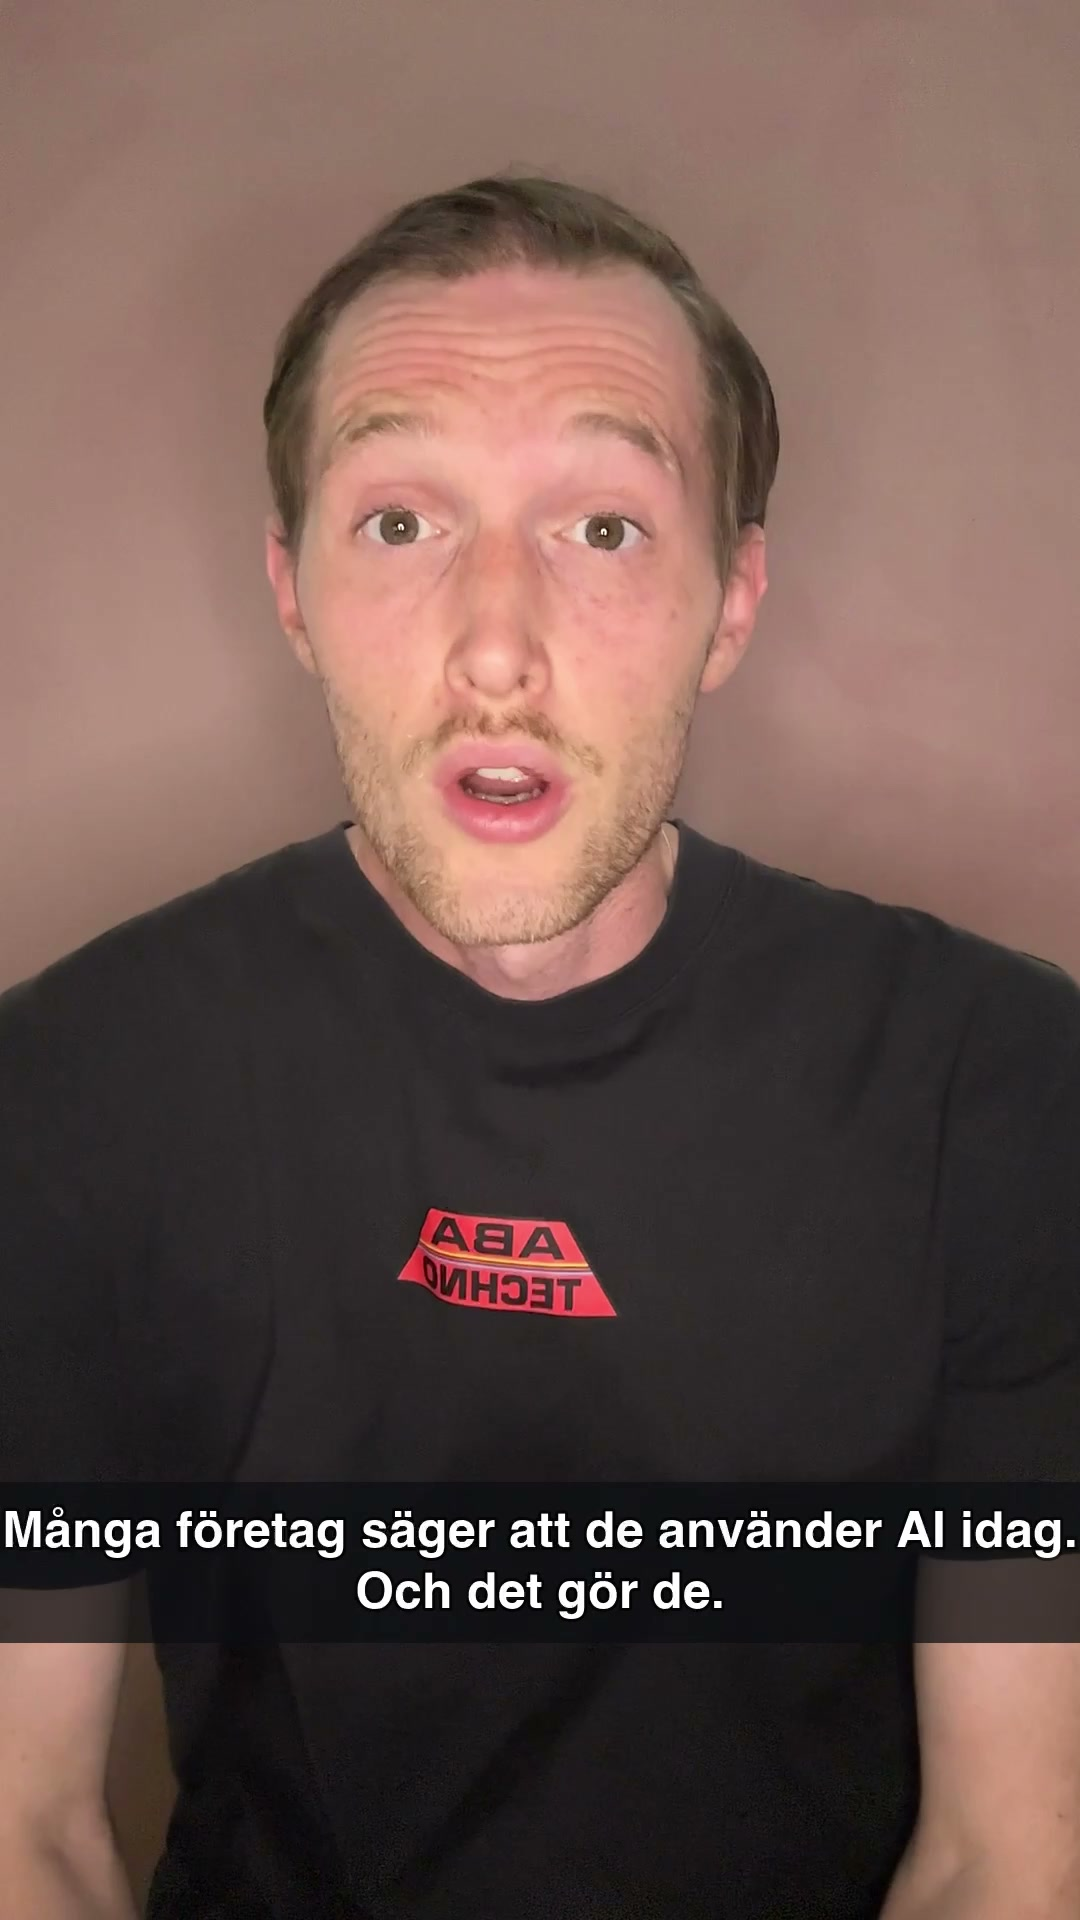
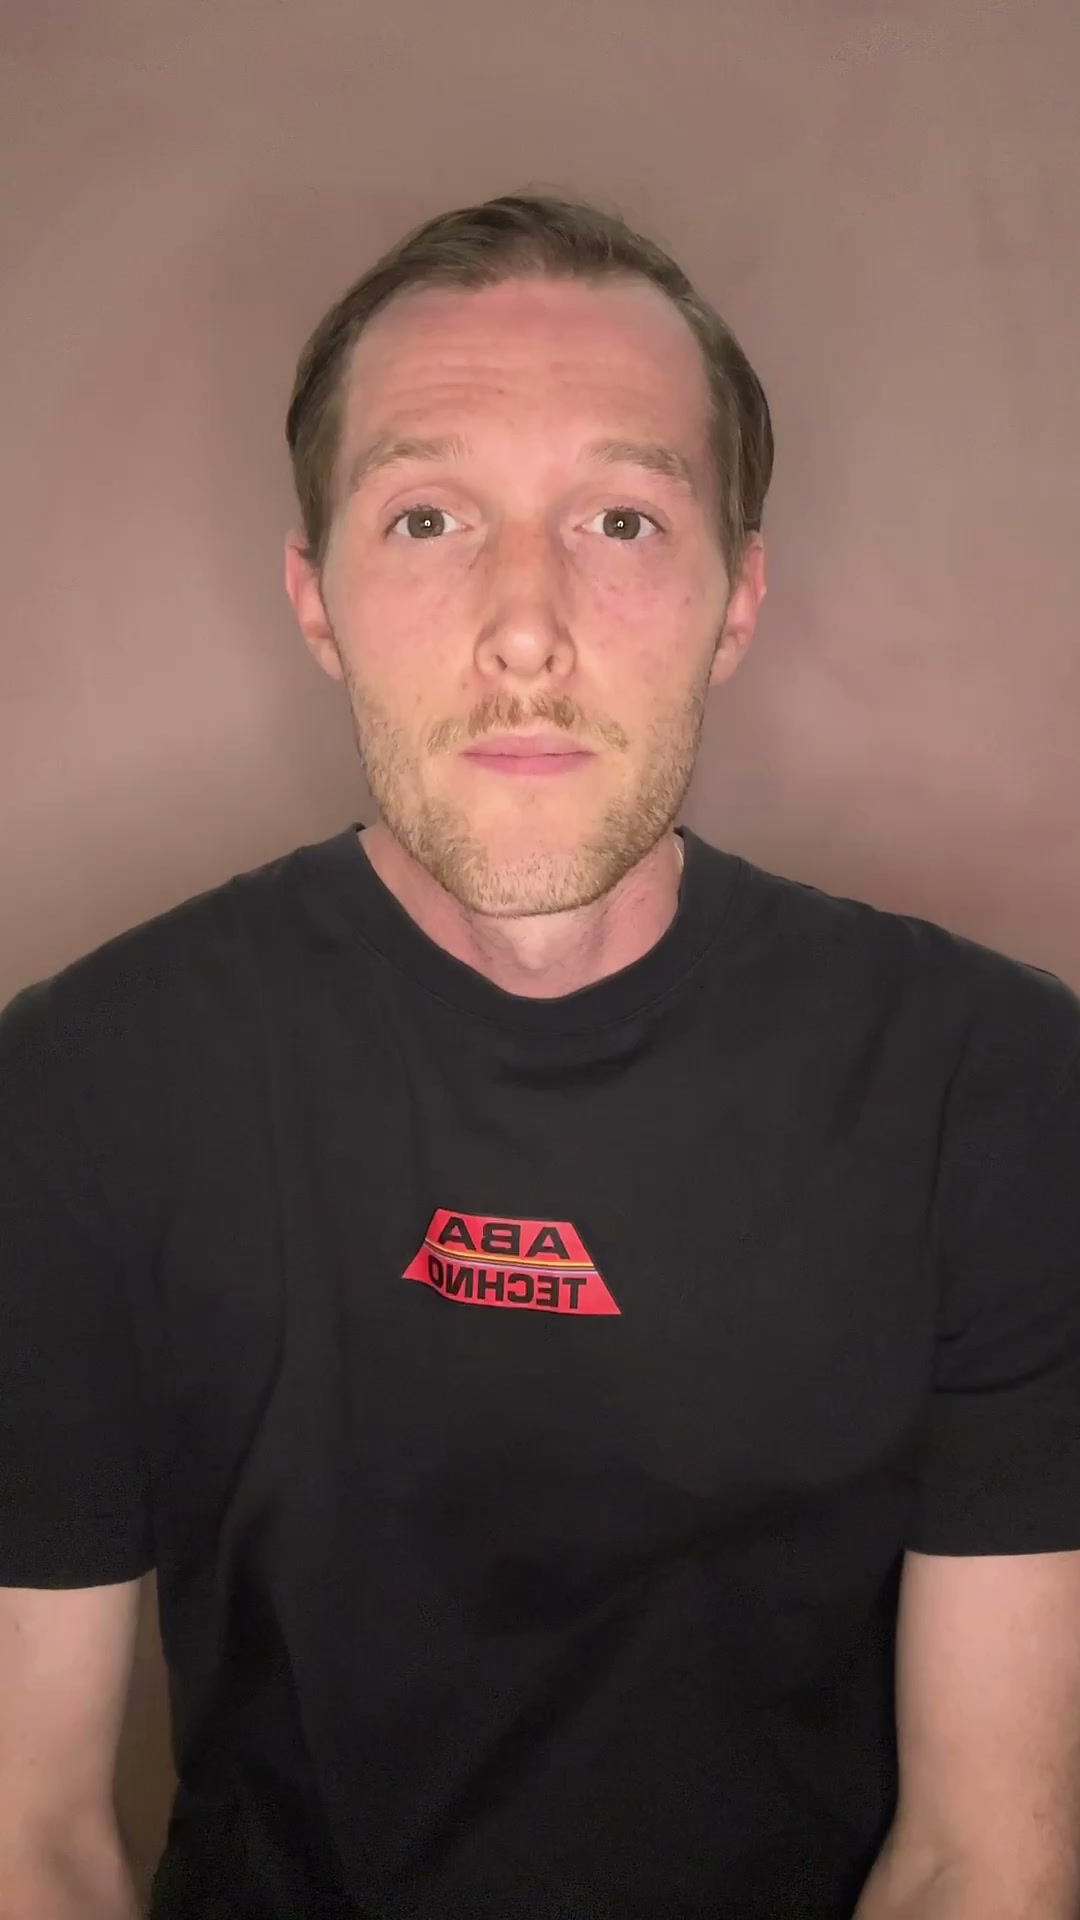
Finalize Meta ad V2 preview

diff --git a/ai-i-drift/sa-fungerar-det/bridge.css b/ai-i-drift/sa-fungerar-det/bridge.css
@@ -63,21 +63,6 @@
   border-bottom: 1px solid rgba(243, 238, 228, 0.38);
 }
 
-.bridge-video-meta {
-  min-height: 46px;
-  display: flex;
-  align-items: center;
-  justify-content: space-between;
-  gap: 16px;
-  padding: 0 18px;
-  color: #9e9587;
-  border-bottom: 1px solid rgba(243, 238, 228, 0.14);
-  font-family: "IBM Plex Mono", monospace;
-  font-size: 0.58rem;
-  letter-spacing: 0.13em;
-  text-transform: uppercase;
-}
-
 .bridge-video-frame video {
   width: 100%;
   aspect-ratio: 16 / 9;
@@ -132,11 +117,6 @@
     font-size: clamp(3rem, 14.5vw, 4.7rem);
   }
 
-  .bridge-video-meta {
-    min-height: 42px;
-    padding-inline: 14px;
-  }
-
   .bridge-action {
     align-items: stretch;
     flex-direction: column;
@@ -160,7 +140,4 @@
     font-size: 3.2rem;
   }
 
-  .bridge-video-meta span:last-child {
-    display: none;
-  }
 }

diff --git a/ai-i-drift/sa-fungerar-det/index.html b/ai-i-drift/sa-fungerar-det/index.html
@@ -31,10 +31,6 @@
       </div>
 
       <div class="bridge-video-frame">
-        <div class="bridge-video-meta" aria-hidden="true">
-          <span>Inför mötet</span>
-          <span>48 sekunder</span>
-        </div>
         <video
           id="bridge-video"
           data-media-status="local-review-candidate"

diff --git a/assets/video/README.md b/assets/video/README.md
@@ -9,15 +9,18 @@
 - `ai-i-drift-sa-fungerar-det-v2.sv.vtt`: captions for the retired V2 asset only.
 - `ai-i-drift-sa-fungerar-det.mp4`: historical placeholder. Do not launch.
 - `ai-i-drift-sa-fungerar-det-v3-script.sv.txt`: exact spoken source represented by the 16:9 bridge recording.
-- `meta-founder-ad-v1-script.sv.txt`: exact spoken source represented by the approved portrait Meta ad.
+- `meta-founder-ad-v1-script.sv.txt`: historical spoken source represented by the immutable original portrait ad.
+- `meta-founder-ad-v2-script.sv.txt`: launch-derivative spoken source after the founder-authorized removal of one complete sentence.
 
[8 lines of base64/hex data omitted]
 
-The Meta ad uses the captioned FINAL source and is approved as campaign creative.
+The Meta ad uses the captioned V2 launch derivative. The original FINAL source remains unchanged as history.
 The bridge uses the separate 16:9 Tella recording, its matching VTT, readable
 transcript and authentic poster. The bridge continues the ad by explaining the
 five questions and 20-minute booking instead of repeating the ad's argument.

diff --git a/output/meta-e2e-preview-2026-07-30/evidence-receipt.md b/output/meta-e2e-preview-2026-07-30/evidence-receipt.md
@@ -32,8 +32,8 @@ read as one coherent journey. This visual acceptance remains open.
 ## 2026-08-02 frontend closure
 
 - The preview now contains a numbered navigator for all four surfaces.
-- The selected first step is the approved 88.443-second portrait Meta video. The static C02 asset remains preserved as an alternate draft.
-- The ad preview uses an intentional frame after the founder is seated as its poster. The approved video itself is unchanged.
+- The selected first step is the 85.631-second portrait V2 launch derivative. The immutable 88.443-second source and static C02 alternate remain preserved.
+- The ad preview poster is a neutral seated frame from source time 8.4 seconds, with closed mouth and no caption overlay.
 - The bridge contains no transcript accordion or repeated explanation around the video.
 - The bridge CTA opens the dedicated qualification route. The long-form `/ai-i-drift/` page remains intact for organic discovery.
 - The five questions remain five categorical primary questions and collect company
@@ -60,6 +60,19 @@ read as one coherent journey. This visual acceptance remains open.
 - HTTP readback: all four local route surfaces returned 200
 - Automated browser navigation to localhost was blocked by the browser safety
   policy, so current visual acceptance is intentionally not claimed from tests alone
+
+## 2026-08-02 Meta ad V2 receipt
+
+- Immutable source: `/Users/gustavhemmingsson/Desktop/NordSym-AI-agenter-edit/NordSym-AI-agenter-FINAL.mp4`
[1 lines of base64/hex data omitted]
+- V2 derivative: `/Users/gustavhemmingsson/Desktop/NordSym-AI-agenter-edit/NordSym-AI-agenter-LAUNCH-V2.mp4`
[2 lines of base64/hex data omitted]
+- Removed source interval: `56.916667-59.733333`
+- Removed sentence: `Och det är ofta här det faktiskt brister.`
+- V2 media: 1080 x 1920, H.264/AAC, 60 fps, 85.631 seconds, fast-start
+- A/V starts: `0.000/0.000`; stream-length difference: `0.014333` seconds
+- Full video and audio decode completed without error
 
 ## LAUNCH-ONLY LATER
 

diff --git a/output/meta-launch-ready-packet-2026-08-01.md b/output/meta-launch-ready-packet-2026-08-01.md
@@ -77,16 +77,16 @@ decision.
 
 ## Meta ad video
 
-### Spoken Swedish script, 88.4 seconds
+### Spoken Swedish script, 85.6 seconds
 
 The single working source is
-`assets/video/meta-founder-ad-v1-script.sv.txt`. No alternate script
+`assets/video/meta-founder-ad-v2-script.sv.txt`. No alternate script
 is approved for the first cell.
 
 ### Approved asset
 
 - Format: vertical 9:16 master, 1080 x 1920.
-- Duration: 88.443 seconds. Gustav intentionally enters frame before the first spoken sentence.
+- Duration: 85.631 seconds. Gustav intentionally enters frame before the first spoken sentence.
 - Framing: medium close-up, eye-level camera, uncluttered home-office background.
 - Delivery: direct and conversational. Do not read section labels or say
   `Operating Layer`, `AI operation`, `readiness` or `governance`.
@@ -197,9 +197,10 @@ build-and-operate relationship.
   shows no connected resources
 - Billing: 0.00 SEK and no payment method on the canonical manual account
 - Campaigns: none
-- Founder media: approved source `NordSym-AI-agenter-FINAL.mp4`, SHA-256
+- Founder media: launch derivative `NordSym-AI-agenter-LAUNCH-V2.mp4`, SHA-256
[1 lines of base64/hex data omitted]
+  The immutable source remains `NordSym-AI-agenter-FINAL.mp4`, SHA-256
[1 lines of base64/hex data omitted]
-  This captioned file is approved as the Meta creative.
 - Bridge media: clean Tella source `Kom igång med era AI-agenter.mp4`, SHA-256
[1 lines of base64/hex data omitted]
   Its fast-start 1920 x 1080 H.264/AAC web derivative has SHA-256

diff --git a/output/meta-e2e-preview-2026-07-30/campaign-draft.md b/output/meta-e2e-preview-2026-07-30/campaign-draft.md
@@ -47,11 +47,12 @@ This specification is inert. It does not authorize campaign creation, payment ch
 
   `https://nordsym.com/ai-i-drift/sa-fungerar-det/?utm_source=meta&utm_medium=paid_social&utm_campaign=ai_i_drift_v1&utm_content=founder_video_v1`
 
-- Meta video asset: `/Users/gustavhemmingsson/Desktop/NordSym-AI-agenter-edit/NordSym-AI-agenter-FINAL.mp4`
[1 lines of base64/hex data omitted]
-- Delivery: 1080 x 1920 H.264/AAC, 88.443 seconds, 60 fps, baked Swedish captions plus matching VTT
+- Meta video asset: `/Users/gustavhemmingsson/Desktop/NordSym-AI-agenter-edit/NordSym-AI-agenter-LAUNCH-V2.mp4`
[2 lines of base64/hex data omitted]
+- Delivery: 1080 x 1920 H.264/AAC, 85.631 seconds, 60 fps, baked Swedish captions
 - Bridge media: separate 16:9 Tella derivative `assets/video/ai-i-drift-sa-fungerar-det-v3.mp4` with matching Swedish VTT and readable transcript
-- Meta ad spoken source: `assets/video/meta-founder-ad-v1-script.sv.txt`
+- Meta ad spoken source: `assets/video/meta-founder-ad-v2-script.sv.txt`
 - Bridge spoken source: `assets/video/ai-i-drift-sa-fungerar-det-v3-script.sv.txt`
 - Static reserve: C02 remains held and is not launched simultaneously in the first low-volume cell.
 
